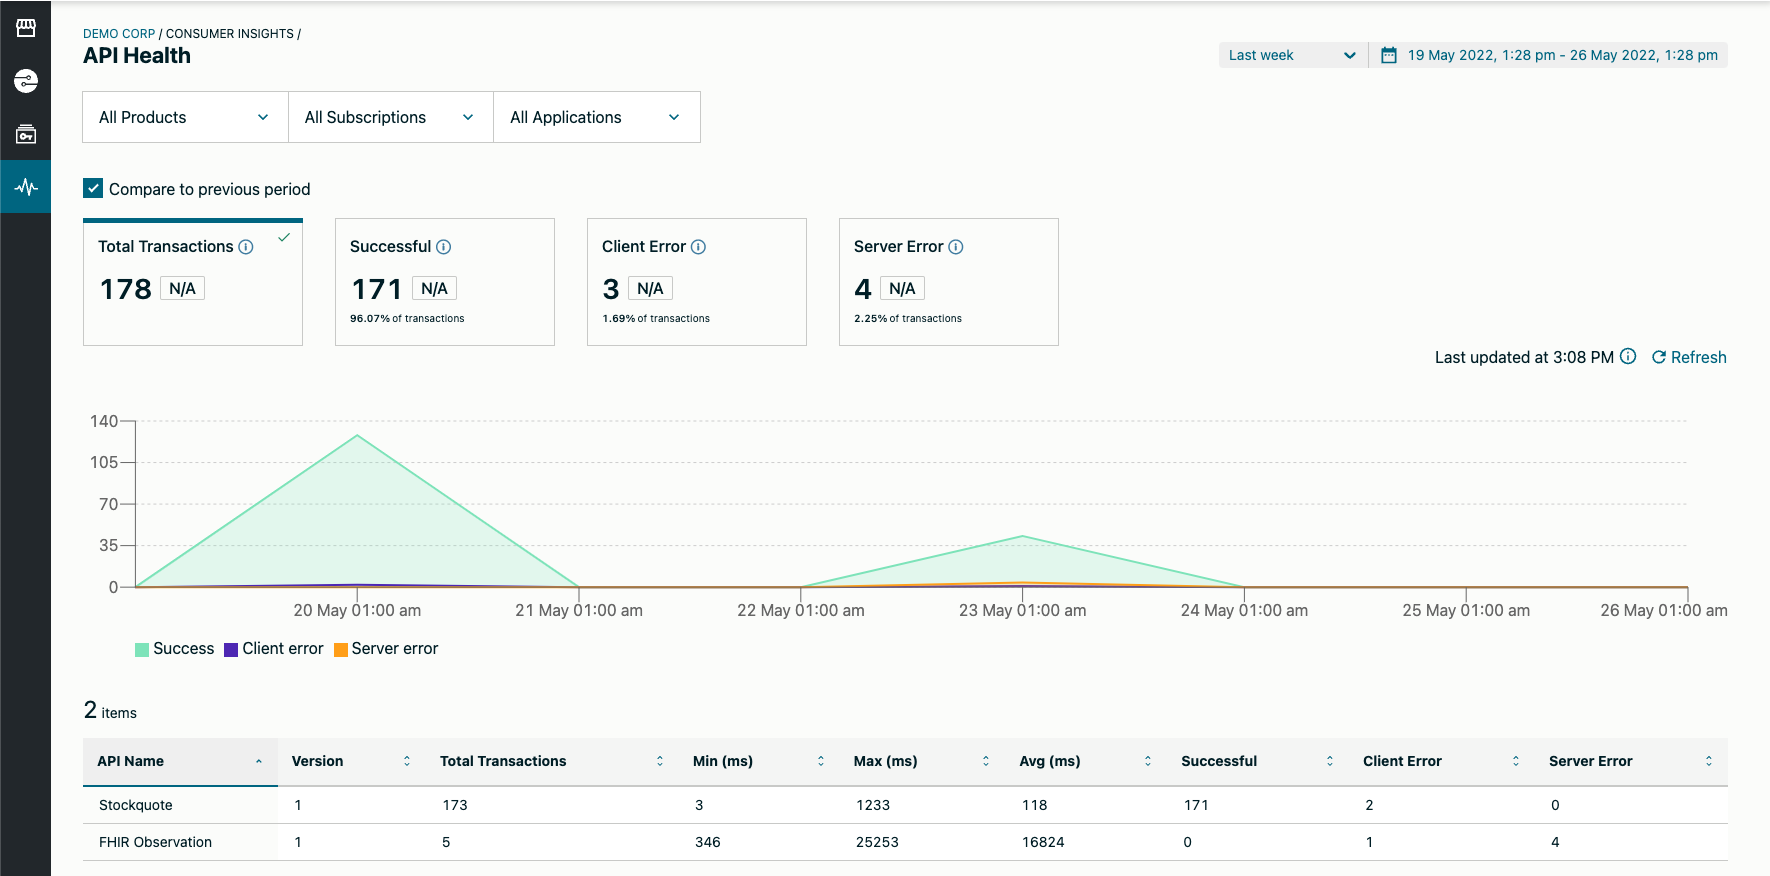
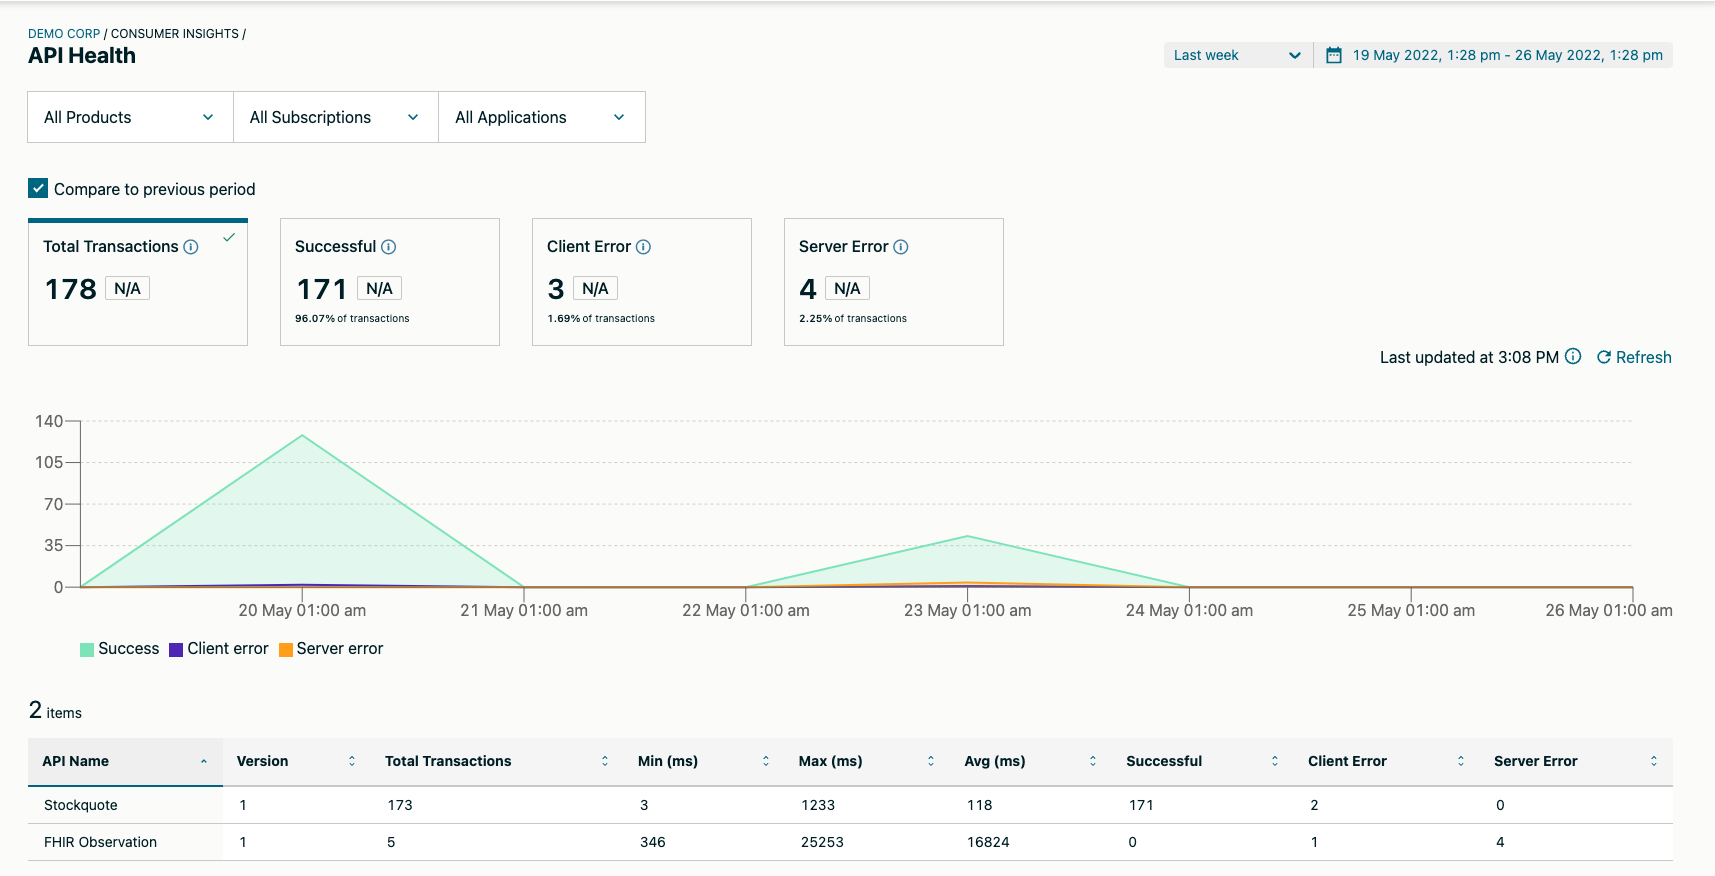
updated API Health image to remove left  navigation and corrected the image path

diff --git a/content/en/docs/manage_marketplace/consumer_experience/consumer_insights.md b/content/en/docs/manage_marketplace/consumer_experience/consumer_insights.md
@@ -15,7 +15,7 @@ From the Marketplace left navigation click **Consumer Insights**. You are direct
 
 Click **API Health** to see an aggregated view of your API recent usage. This view is useful for monitoring traffic patterns and successes or failures over time.
 
-![API Health example](/Images/central/consumer_experience/insights_api_health.png)
+![API Health example](/Images/marketplace/consumer_experience/insights_api_health.png)
 
 The view shows all transactions, successes, client errors, and server errors with the total number, percentage details, and trend (when **Compare to previous period** is selected) in the tiles across the top below the filter options. Click the **Compare to previous period** option to compare the current selected time range to the previous time range. You can compare the current week, month, or year to the previous week, month, or year to understand how your API usage is changing over time.
 
